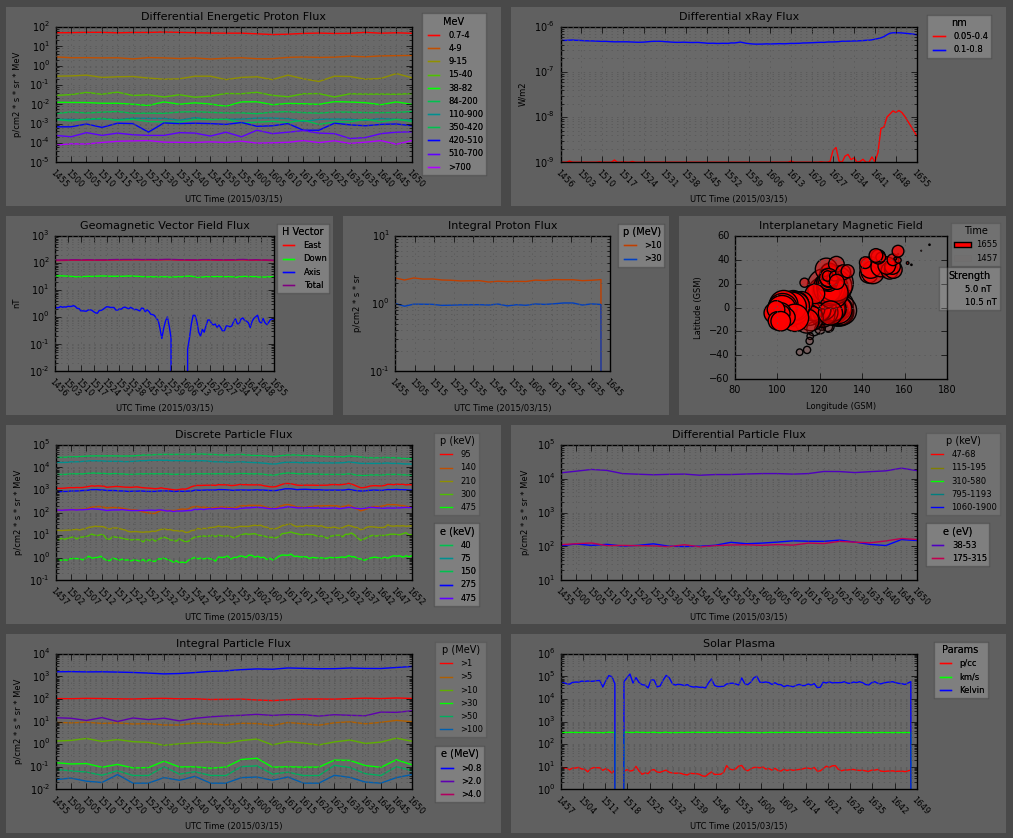
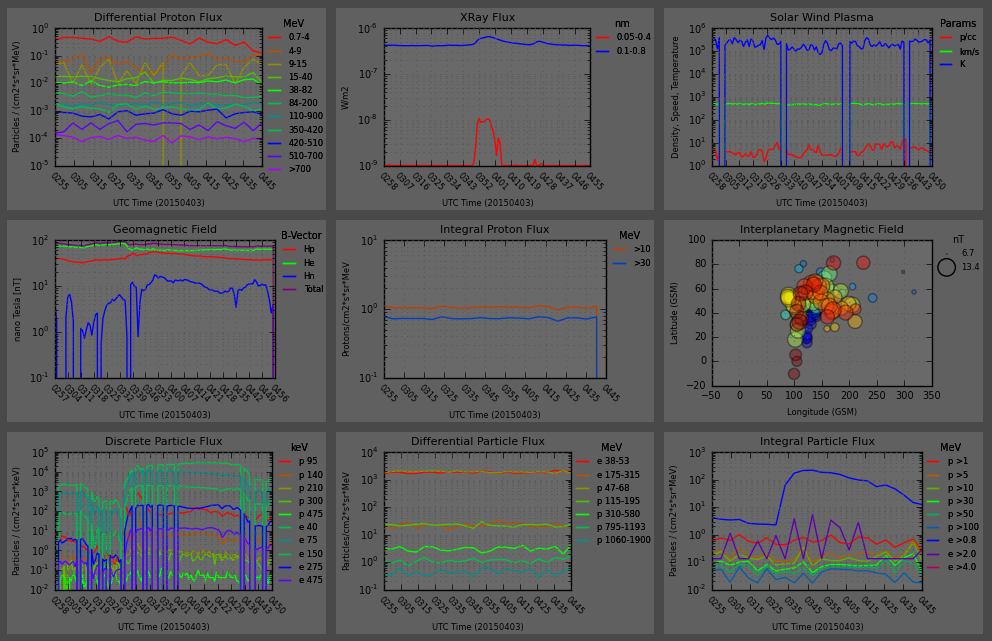
Layout restructuring and optimization. New screenshots taken.

Changed region(s): [[0.0, 0.0, 1.0, 0.9984], [0.9375, 0.4056, 0.9688, 0.4368]]

diff --git a/src/SolarParticleFlux.py b/src/SolarParticleFlux.py
@@ -30,7 +30,7 @@ class MyGOESIntegralParticleFlux(MyMplCanvas):
     """
       Initialize the updating object.
     """
-    MyMplCanvas.__init__(self, *args, **kwargs)
+    MyMplCanvas.__init__(self, right_edge=0.81, *args, **kwargs)
     timer = QTimer(self)
     # Tie the "update_figure" function to the timer
     timer.timeout.connect(self.update_figure)
@@ -58,29 +58,32 @@ class MyGOESIntegralParticleFlux(MyMplCanvas):
     # Get the new data
     (self.label_list,self.datas,self.stamp,self.units,self.particles) = \
       getGOESIntegralParticleFlux()
-    # Get number of data points
-    data_points = linspace(0,1,len(self.stamp))
     # Next plot overwrites all previous plots
     self.axes.hold(False)
     self.axes.plot(0)
     self.axes.hold(True)
     # Plot all data sets
-    plot1 = [self.axes.plot(data_points, self.datas[key],
+    plot1 = [self.axes.plot(linspace(0,1,len(self.stamp)), self.datas[key],
       colors_and_globals.GOESIntegralParticleFluxColors[key],
       label=self.particles[key][1]
       ) for key in self.label_list]
     # Format the Graph
-    self.format_graph(data_points)
+    self.format_graph()
 
-  def format_graph(self, data_points):
+  def format_graph(self):
     # Set the graph background color
     self.axes.set_axis_bgcolor(colors_and_globals.graph_bgcolor)
     # Change Plot to logarithmic
     self.axes.set_yscale("log")
     # Show all plot grids
     self.axes.grid(True, which="both", color=colors_and_globals.grid_color)
+    # Thin the number of x-axis labels and ticks, this works with the list of
+    # tuples that are the date/time stamps
+    self.stamp = [x \
+      for x in self.stamp[0::2]
+    ]
     # Set number of X-Axis ticks
-    self.axes.set_xticks(data_points)
+    self.axes.set_xticks(linspace(0,1,len(self.stamp)))
     # Separate dates and times
     (dates,times) = zip(*self.stamp)
     # Change the plot tick labels
@@ -112,8 +115,8 @@ class MyGOESIntegralParticleFlux(MyMplCanvas):
     # bbox_to_anchor=None, bbox_transform=None, frameon=None, handler_map=None)
     # Create the legends
     legend1 = self.axes.legend(
-      framealpha=0.1,
+      framealpha=0,
       loc=1, fontsize=colors_and_globals.legendSize,
-      bbox_to_anchor=(1.24, 1.12),
+      bbox_to_anchor=(1.30, 1.12),
       title="MeV")
     self.axes.add_artist(legend1)

diff --git a/src/ACEInterplanetaryMagField.py b/src/ACEInterplanetaryMagField.py
@@ -27,7 +27,7 @@ class MyInterplanetaryMagField(MyMplCanvas):
     Initialize the updating object.
   """
   def __init__(self, *args, **kwargs):
-    MyMplCanvas.__init__(self, left_edge=0.17, right_edge=0.78, top_edge=0.9,
+    MyMplCanvas.__init__(self, right_edge=0.84, top_edge=0.9,
         bottom_edge=0.18, *args, **kwargs)
     timer = QTimer(self)
     # Tie the "update_figure" function to the timer
@@ -76,7 +76,7 @@ class MyInterplanetaryMagField(MyMplCanvas):
     area_m = 7/(largest - smallest)
     # Normalize values
     self.datas["Total"] = \
-      [(3.14159*(area_m*(t - smallest))**2) for t in self.datas["Total"]]
+      [(3.14159*(area_m*(t - smallest+(area_m/10)))**2) for t in self.datas["Total"]]
     pt_colors = [x*(256/len(self.datas["Total"])) for x in range(len(self.datas["Total"]))]
     # Scatter Plot by Latitude/Longitude
     self.axes.scatter(
@@ -86,8 +86,8 @@ class MyInterplanetaryMagField(MyMplCanvas):
       c=pt_colors, label=self.datas["Total"], alpha=0.4
     )
     # Draw False Values for size legend
-    leg_smallest = (3.14159*(area_m*(smallest))**2)
-    leg_largest = (3.14159*(area_m*(largest))**2)
+    leg_smallest = min(self.datas["Total"])
+    leg_largest = max(self.datas["Total"])
     small = self.axes.scatter([], [], s=leg_smallest, facecolors='none', edgecolors='k')
     large = self.axes.scatter([], [], s=leg_largest, facecolors='none', edgecolors='k')
     # Create the size legend labels
@@ -95,9 +95,9 @@ class MyInterplanetaryMagField(MyMplCanvas):
     # Legend
     leg = self.axes.legend(
       [small, large], leg_labels,
-      framealpha=0.1,
+      framealpha=0,
       loc=1, fontsize=colors_and_globals.legendSize,
-      bbox_to_anchor=(1.35, 1.12),
+      bbox_to_anchor=(1.27, 1.12),
       title="nT",
       borderpad=1,
       scatterpoints=1)

diff --git a/src/SpaceWeather.py b/src/SpaceWeather.py
@@ -90,12 +90,10 @@ class ApplicationWindow(QMainWindow):
     h1 = QHBoxLayout()
     h2 = QHBoxLayout()
     h3 = QHBoxLayout()
-    h4 = QHBoxLayout()
     # Added as sublayouts to the top level vertical layout
     l.addLayout(h1)
     l.addLayout(h2)
     l.addLayout(h3)
-    l.addLayout(h4)
 
     self.main_widget.setFocus()
     self.setCentralWidget(self.main_widget)
@@ -118,6 +116,8 @@ class ApplicationWindow(QMainWindow):
     h1.addWidget(GOESRangeProtonFlux)
     GOESXrayFlux = MyGOESXrayFlux(self.main_widget, width=5, height=4, dpi=100)
     h1.addWidget(GOESXrayFlux)
+    ACESolarWindPlasma = MySolarWindPlasma(self.main_widget, width=5, height=4, dpi=100)
+    h1.addWidget(ACESolarWindPlasma)
 
     GOESGoemagFieldFlux = MyGOESGoemagFieldFluxCanvas(self.main_widget, width=5, height=4, dpi=100)
     h2.addWidget(GOESGoemagFieldFlux)
@@ -130,11 +130,8 @@ class ApplicationWindow(QMainWindow):
     h3.addWidget(GOESDiscreteParticleFlux)
     ACEDiffElecProtFlux = MyDiffElecProtFlux(self.main_widget, width=5, height=4, dpi=100)
     h3.addWidget(ACEDiffElecProtFlux)
-
     GOESRangeParticleFlux = MyGOESIntegralParticleFlux(self.main_widget, width=5, height=4, dpi=100)
-    h4.addWidget(GOESRangeParticleFlux)
-    ACESolarWindPlasma = MySolarWindPlasma(self.main_widget, width=5, height=4, dpi=100)
-    h4.addWidget(ACESolarWindPlasma)
+    h3.addWidget(GOESRangeParticleFlux)
 
   def fileQuit(self):
     self.close()

diff --git a/src/DifferentialEnergeticProtonFlux.py b/src/DifferentialEnergeticProtonFlux.py
@@ -30,7 +30,7 @@ class MyGOESRangeProtonFluxCanvas(MyMplCanvas):
     """
       Initialize the updating object.
     """
-    MyMplCanvas.__init__(self, *args, **kwargs)
+    MyMplCanvas.__init__(self, right_edge=0.80, *args, **kwargs)
     timer = QTimer(self)
     # Tie the "update_figure" function to the timer
     timer.timeout.connect(self.update_figure)
@@ -77,6 +77,11 @@ class MyGOESRangeProtonFluxCanvas(MyMplCanvas):
     self.axes.set_yscale("log")
     # Show all plot grids
     self.axes.grid(True, which="both", color=colors_and_globals.grid_color)
+    # Thin the number of x-axis labels and ticks, this works with the list of
+    # tuples that are the date/time stamps
+    self.stamp = [x \
+      for x in self.stamp[0::2]
+    ]
     # Set number of X-Axis ticks
     self.axes.set_xticks(linspace(0,1,len(self.stamp)))
     # Separate dates and times
@@ -110,9 +115,9 @@ class MyGOESRangeProtonFluxCanvas(MyMplCanvas):
     # bbox_to_anchor=None, bbox_transform=None, frameon=None, handler_map=None)
     # Create the legends
     legend1 = self.axes.legend(
-      framealpha=0.1,
+      framealpha=0,
       loc=1, fontsize=colors_and_globals.legendSize,
-      bbox_to_anchor=(1.24, 1.12),
+      bbox_to_anchor=(1.33, 1.12),
       title="MeV")
     self.axes.add_artist(legend1)
 

diff --git a/src/ACEDiffElectronProtonFlux.py b/src/ACEDiffElectronProtonFlux.py
@@ -30,7 +30,7 @@ class MyDiffElecProtFlux(MyMplCanvas):
     """
       Initialize the updating object.
     """
-    MyMplCanvas.__init__(self, right_edge=0.80, *args, **kwargs)
+    MyMplCanvas.__init__(self, right_edge=0.74, *args, **kwargs)
     timer = QTimer(self)
     # Tie the "update_figure" function to the timer
     timer.timeout.connect(self.update_figure)
@@ -77,6 +77,11 @@ class MyDiffElecProtFlux(MyMplCanvas):
     self.axes.set_yscale("log")
     # Show all plot grids
     self.axes.grid(True, which="both", color=colors_and_globals.grid_color)
+    # Thin the number of x-axis labels and ticks, this works with the list of
+    # tuples that are the date/time stamps
+    self.stamp = [x \
+      for x in self.stamp[0::2]
+    ]
     # Set number of X-Axis ticks
     self.axes.set_xticks(linspace(0,1,len(self.stamp)))
     # Separate dates and times
@@ -110,8 +115,8 @@ class MyDiffElecProtFlux(MyMplCanvas):
     # bbox_to_anchor=None, bbox_transform=None, frameon=None, handler_map=None)
     # Create the legends
     legend1 = self.axes.legend(
-      framealpha=0.1,
+      framealpha=0,
       loc=1, fontsize=colors_and_globals.legendSize,
-      bbox_to_anchor=(1.28, 1.12),
+      bbox_to_anchor=(1.46, 1.12),
       title="MeV")
     self.axes.add_artist(legend1)

diff --git a/src/DualXRayFlux.py b/src/DualXRayFlux.py
@@ -30,7 +30,7 @@ class MyGOESXrayFlux(MyMplCanvas):
     """
       Initialize the updating object.
     """
-    MyMplCanvas.__init__(self, *args, **kwargs)
+    MyMplCanvas.__init__(self, right_edge=0.80, *args, **kwargs)
     timer = QTimer(self)
     # Tie the "update_figure" function to the timer
     timer.timeout.connect(self.update_figure)
@@ -108,7 +108,7 @@ class MyGOESXrayFlux(MyMplCanvas):
     # Thin the number of x-axis labels and ticks, this works with the list of
     # tuples that are the date/time stamps
     self.stamp = [x \
-      for x in self.stamp[0::7]
+      for x in self.stamp[0::9]
     ]
     # Set number of X-Axis ticks
     self.axes.set_xticks(linspace(0,1,len(self.stamp)))
@@ -143,8 +143,8 @@ class MyGOESXrayFlux(MyMplCanvas):
     # bbox_to_anchor=None, bbox_transform=None, frameon=None, handler_map=None)
     # Create the legends
     legend1 = self.axes.legend(
-      framealpha=0.1,
+      framealpha=0,
       loc=1, fontsize=colors_and_globals.legendSize,
-      bbox_to_anchor=(1.24, 1.12),
-      title="Nanometer")
+      bbox_to_anchor=(1.33, 1.12),
+      title="nm")
     self.axes.add_artist(legend1)

diff --git a/src/ACEIntegralProtonFlux.py b/src/ACEIntegralProtonFlux.py
@@ -30,8 +30,7 @@ class MyIntegralProtonFlux(MyMplCanvas):
     Initialize the updating object.
   """
   def __init__(self, *args, **kwargs):
-    MyMplCanvas.__init__(self, left_edge=0.16, right_edge=0.82, top_edge=0.9,
-      bottom_edge=0.22, *args, **kwargs)
+    MyMplCanvas.__init__(self, right_edge=0.85, *args, **kwargs)
     timer = QTimer(self)
     # Tie the "update_figure" function to the timer
     timer.timeout.connect(self.update_figure)
@@ -116,8 +115,8 @@ class MyIntegralProtonFlux(MyMplCanvas):
     # bbox_to_anchor=None, bbox_transform=None, frameon=None, handler_map=None)
     # Create the legends
     legend1 = self.axes.legend(
-      framealpha=0.1,
+      framealpha=0,
       loc=1, fontsize=colors_and_globals.legendSize,
-      bbox_to_anchor=(1.28, 1.12),
+      bbox_to_anchor=(1.23, 1.12),
       title="MeV")
     self.axes.add_artist(legend1)

diff --git a/src/DiscreteParticleFlux.py b/src/DiscreteParticleFlux.py
@@ -30,7 +30,7 @@ class MyGOESDiscreteParticleFlux(MyMplCanvas):
     """
       Initialize the updating object.
     """
-    MyMplCanvas.__init__(self, right_edge=0.84, *args, **kwargs)
+    MyMplCanvas.__init__(self, right_edge=0.83, *args, **kwargs)
     timer = QTimer(self)
     # Tie the "update_figure" function to the timer
     timer.timeout.connect(self.update_figure)
@@ -119,8 +119,8 @@ class MyGOESDiscreteParticleFlux(MyMplCanvas):
     # bbox_to_anchor=None, bbox_transform=None, frameon=None, handler_map=None)
     # Create the legends
     legend1 = self.axes.legend(
-      framealpha=0.1,
+      framealpha=0,
       loc=1, fontsize=colors_and_globals.legendSize,
-      bbox_to_anchor=(1.21, 1.12),
+      bbox_to_anchor=(1.27, 1.12),
       title="keV")
     self.axes.add_artist(legend1)

diff --git a/src/GeomagneticField.py b/src/GeomagneticField.py
@@ -29,7 +29,7 @@ class MyGOESGoemagFieldFluxCanvas(MyMplCanvas):
     """
       Initialize the updating object.
     """
-    MyMplCanvas.__init__(self, *args, **kwargs)
+    MyMplCanvas.__init__(self, right_edge=0.84, *args, **kwargs)
     timer = QTimer(self)
     # Tie the "update_figure" function to the timer
     timer.timeout.connect(self.update_figure)
@@ -114,8 +114,8 @@ class MyGOESGoemagFieldFluxCanvas(MyMplCanvas):
     # bbox_to_anchor=None, bbox_transform=None, frameon=None, handler_map=None)
     # Create the legends
     legend1 = self.axes.legend(
-      framealpha=0.1,
+      framealpha=0,
       loc=1, fontsize=colors_and_globals.legendSize,
-      bbox_to_anchor=(1.24, 1.12),
+      bbox_to_anchor=(1.25, 1.12),
       title="B-Vector")
     self.axes.add_artist(legend1)

diff --git a/src/ACESolarWindPlasma.py b/src/ACESolarWindPlasma.py
@@ -30,7 +30,7 @@ class MySolarWindPlasma(MyMplCanvas):
     """
       Initialize the updating object.
     """
-    MyMplCanvas.__init__(self, *args, **kwargs)
+    MyMplCanvas.__init__(self, right_edge=0.84, *args, **kwargs)
     timer = QTimer(self)
     # Tie the "update_figure" function to the timer
     timer.timeout.connect(self.update_figure)
@@ -115,8 +115,8 @@ class MySolarWindPlasma(MyMplCanvas):
     # bbox_to_anchor=None, bbox_transform=None, frameon=None, handler_map=None)
     # Create the legends
     legend1 = self.axes.legend(
-      framealpha=0.1,
+      framealpha=0,
       loc=1, fontsize=colors_and_globals.legendSize,
-      bbox_to_anchor=(1.24, 1.12),
+      bbox_to_anchor=(1.25, 1.12),
       title="Params")
     self.axes.add_artist(legend1)

diff --git a/src/colors_and_globals.py b/src/colors_and_globals.py
@@ -4,7 +4,7 @@
 # the interface, but that would require creating a type of HEX calculating
 # algorithm for each plot trace, etc
 ###########################################################################
-colorMode = "Dark"
+colorMode = "Light"
 
 ###########################################################################
 # Version of the application
@@ -18,9 +18,9 @@ progdate = "20150402"
 ###########################################################################
 font = {'size' : 7}
 init_posx = 150
-init_posy = 0
+init_posy = 50
 init_app_width = 1000
-init_app_height = 850
+init_app_height = 650
 plotTitleSize = 8
 plotLabelSize = 6
 legendSize = 6

diff --git a/src/MyMplCanvas.py b/src/MyMplCanvas.py
@@ -19,7 +19,7 @@ else:
 # Generic Canvas Object
 class MyMplCanvas(FigureCanvasQTAgg):
   def __init__(self, parent=None, width=5, height=4, dpi=100, subplot=111,
-    left_edge=0.10, right_edge=0.82, top_edge=0.9, bottom_edge=0.22):
+    left_edge=0.15, right_edge=0.82, top_edge=0.9, bottom_edge=0.22):
     """
       class matplotlib.figure.Figure(figsize=None, dpi=None, facecolor=None,
         edgecolor=None, linewidth=0.0, frameon=None, subplotpars=None,
